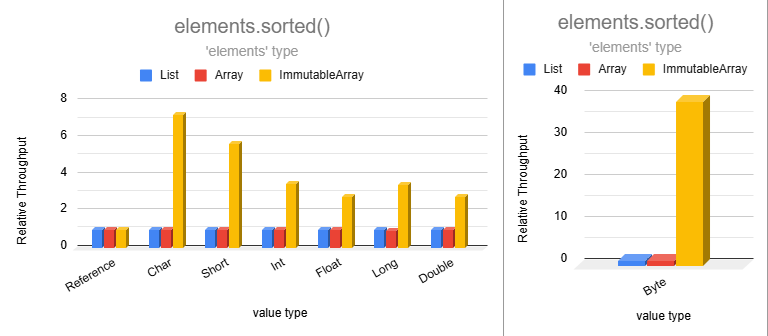
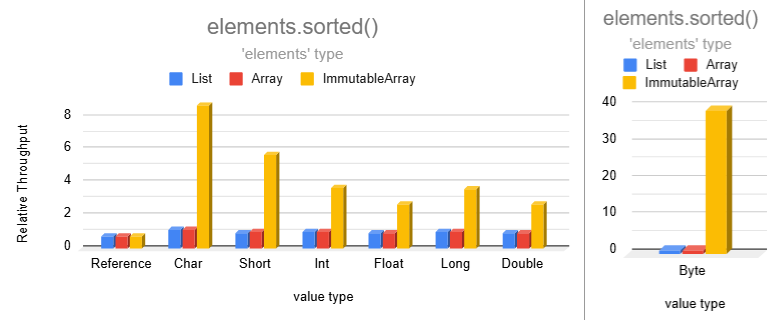
Improve benchmark normalization
The previous benchmark results had the values normalized for each data type individually.  This accurately portrayed the relative performance across the 3 data structures (list, array, & immutable array) for a given data type.

However, the previous approach made it easy to jump to the wrong conclusion when considering the same data structure but operating on different data types since they were presented in the same chart but normalized separately. For example, if the performance of an Immutable-Array operation drops by a smaller amount compared to lists going from operating on Int values to Double values, the operation could be 2X faster than lists when operating on Int values and 3X faster than lists when operating on Double values.  So looking at both scenarios together in the same chart gave the false impression that working with Double values is faster than working with Int values.

This change removes this confusion by having all results within each chart normalized against the same value so that the sizes of all bars are directly comparable against all other bars within the same chart.  The new charts maintain the same relative performance across data structures but also allows us to accurately gauge the performance impact of operating on different data types.
[…]

diff --git a/immutable-arrays/BENCHMARKS.md b/immutable-arrays/BENCHMARKS.md
@@ -9,6 +9,8 @@
 <details>
 <summary>Benchmark Setup</summary>
 
+### Measurement Process
+
 Benchmarks use the [Java Microbenchmark Harness](https://github.com/openjdk/jmh) to ensure accurate results.
 
 1,000 collections are randomly generated with sizes chosen from the following probability distribution in order to
@@ -26,9 +28,25 @@ Int, String, etc.). When measuring the performance of a data type across the 3 c
 operates on identical, randomly-generated data. See benchmark sources
 in [pods4k-benchmarks](https://github.com/daniel-rusu/pods4k-benchmarks) for full details.
 
-Results are normalized to list performance
+### Result Normalization
 
-- 1,000 ops/sec for lists vs. 1,500 for arrays = relative throughput of 1.5.
+The relative throughput allows us say that an operation is `X` times faster when switching from one data structure to
+another without talking about the exact throughput since that's dependent on the machine. So results are normalized
+relative to the median list performance in each chart. Normalizing all results against the same value is important as
+that allows us to gauge the impact of switching data structures, and also the impact of different data types.
+
+**Example calculation:**
+
+| Operation Performed On | Operation Throughput | Relative Throughput |
+|------------------------|----------------------|---------------------|
+| `List<Boolean>`        | `1,200` ops/sec      | `1.2`               |
+| `List<Int>`*           | `1,000` ops/sec      | `1.0`               |
+| `List<Float>`          | `900` ops/sec        | `0.9`               |
+| `BooleanArray`         | `2,400` ops/sec      | `2.4`               |
+| `IntArray`             | `2,000` ops/sec      | `2.0`               |
+| `FloatArray`           | `1,800` ops/sec      | `1.8`               |
+
+* Everything is normalized relative to `List<Int>` in this hypothetical example as that's the median list performance.
 
 </details>
 
@@ -129,7 +147,7 @@ Immutable arrays are between 2 to 8 times faster than lists for many common oper
 faster!  Although there are many more operations, the above results should provide a pretty good representation of the
 performance improvement of common non-trivial operations.
 
-We don't usually think about primitives in Kotlin and the same is true with Immutable Arrays.  However, although we just
+We don't usually think about primitives in Kotlin and the same is true with Immutable Arrays. However, although we just
 focus on writing clean list-like code, Immutable Arrays automatically use primitives when possible:
 
 ```kotlin
